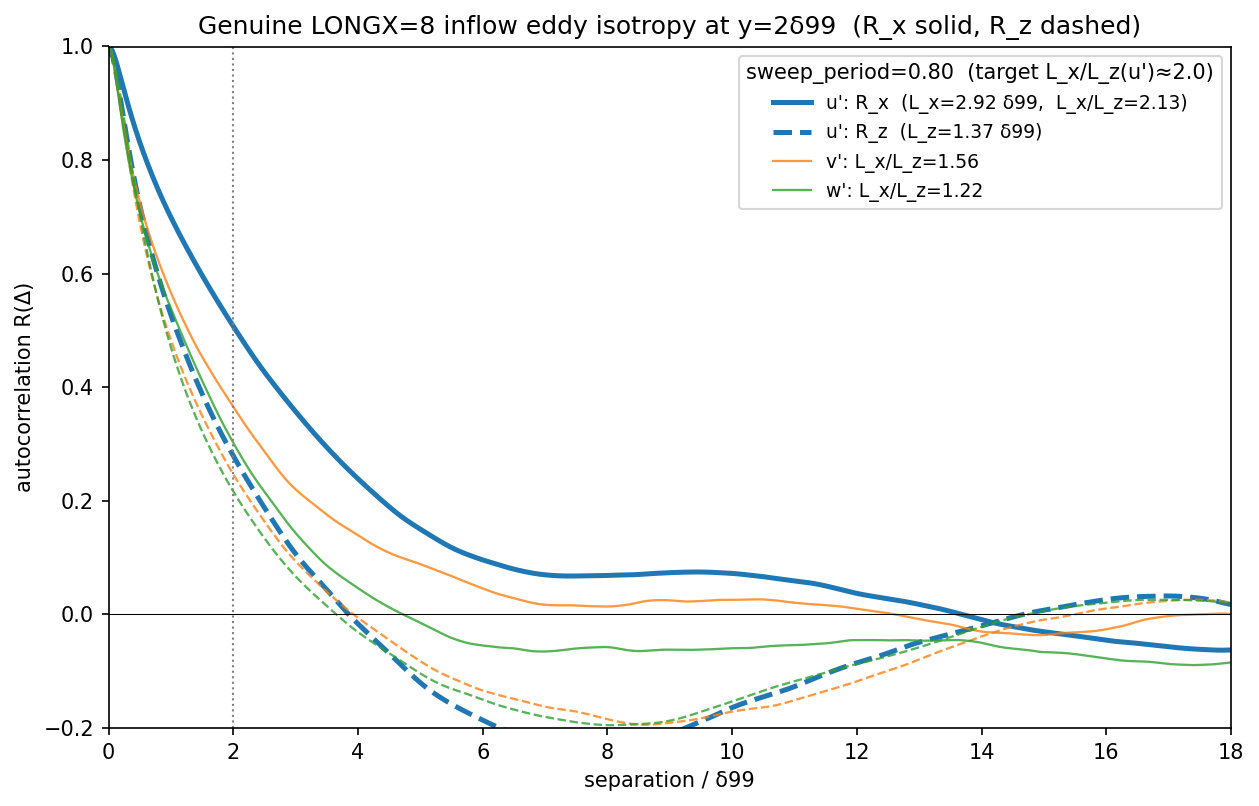
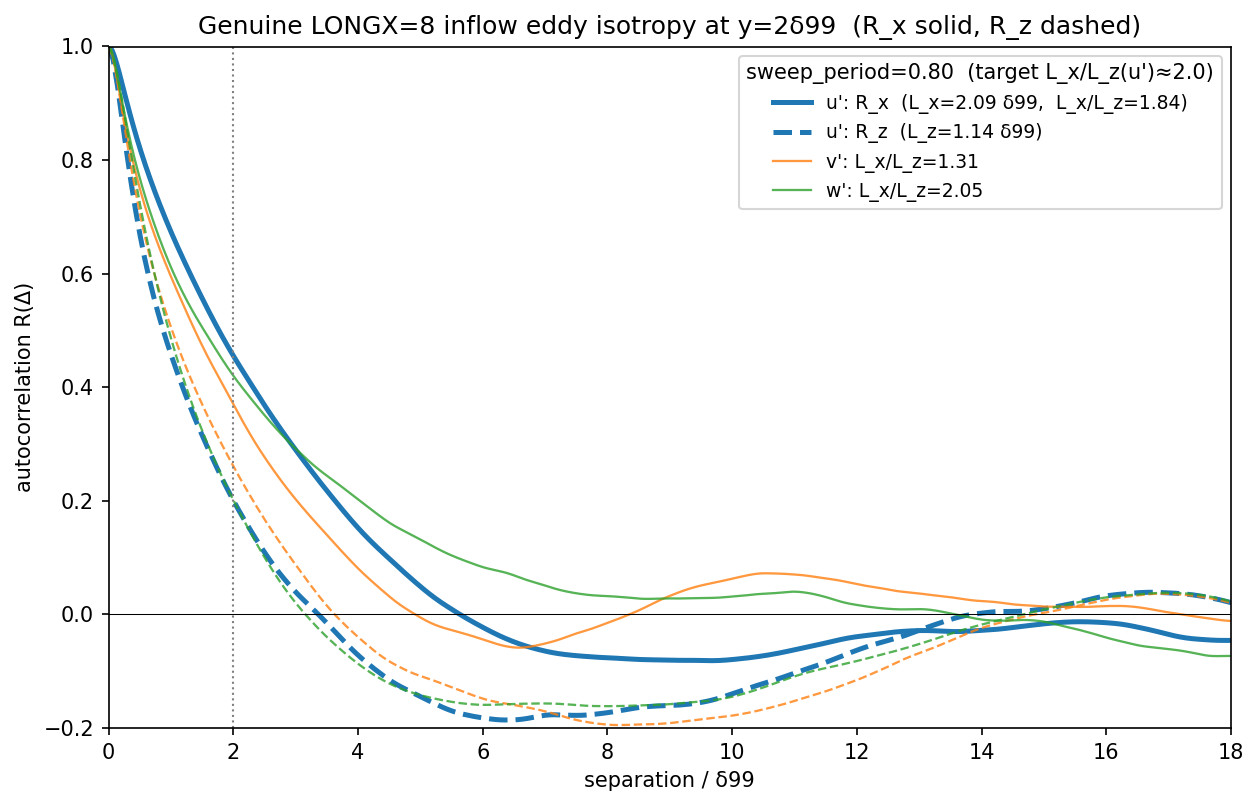
Update LONGX=8 inflow figures from well-averaged t=12 sweep (sweep_period=0.80)
L_x/L_z(u')=1.89 (isotropy target ~2.0 met). Box-period echo +0.086 @user d99 (above the
0.05 wish; isotropy vs echo trade off via sweep_period). Regenerated isotropy, streamwise
view, and inflow spectra from the well-averaged 12000-plane inflow.

diff --git a/figures/README.md b/figures/README.md
@@ -11,7 +11,10 @@ inflow + bypass-transition DNS (`transition_hit_v2` workflow).
   periodic forever, so the swept inflow echoes at the 18.5 δ99 tile sub-period.
 - `echo_isotropy_3case.png` — genuine LONGX=8 echo + isotropy overview.
 - `eddy_isotropy_sweep0.80.png` — eddy isotropy at y=2 δ99 (R_x solid vs R_z dashed) at
-  the tuned sweep_period=0.80: L_x/L_z(u') ≈ 2.1 (canonical isotropic ~2).
+  the tuned sweep_period=0.80 (well-averaged t=12 run): **L_x/L_z(u') ≈ 1.9** (canonical
+  isotropic ~2). NOTE the box-period echo at this sweep_period is ~0.09 @112 δ99 (above the
+  0.05 wish) — isotropy (~2.0, needs faster sweep) and low echo (needs slower sweep) trade
+  off on this LONGX=8 box; still 3× lower echo than the current Marlowe inflow (0.28 @74 δ99).
 - `streamwise_view_sweep0.80.png` — u'(x,z) top + u'(x,y) side view, true aspect.
 - `inflow_spectra_vs_v2.png` — inflow 1D energy spectra E(k_x), E(k_z) at y=2 δ99 vs the
   deployed v2 inflow: k^-5/3 inertial range, matching energy levels, no echo spike.